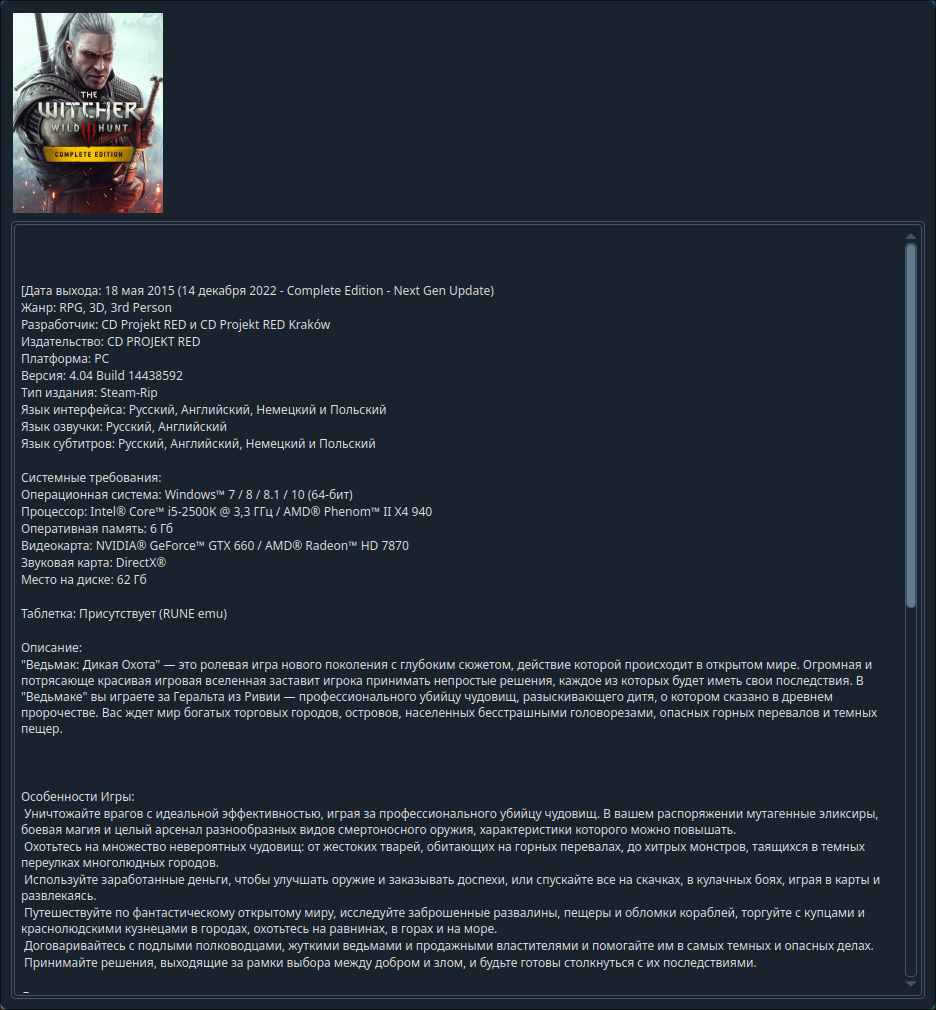
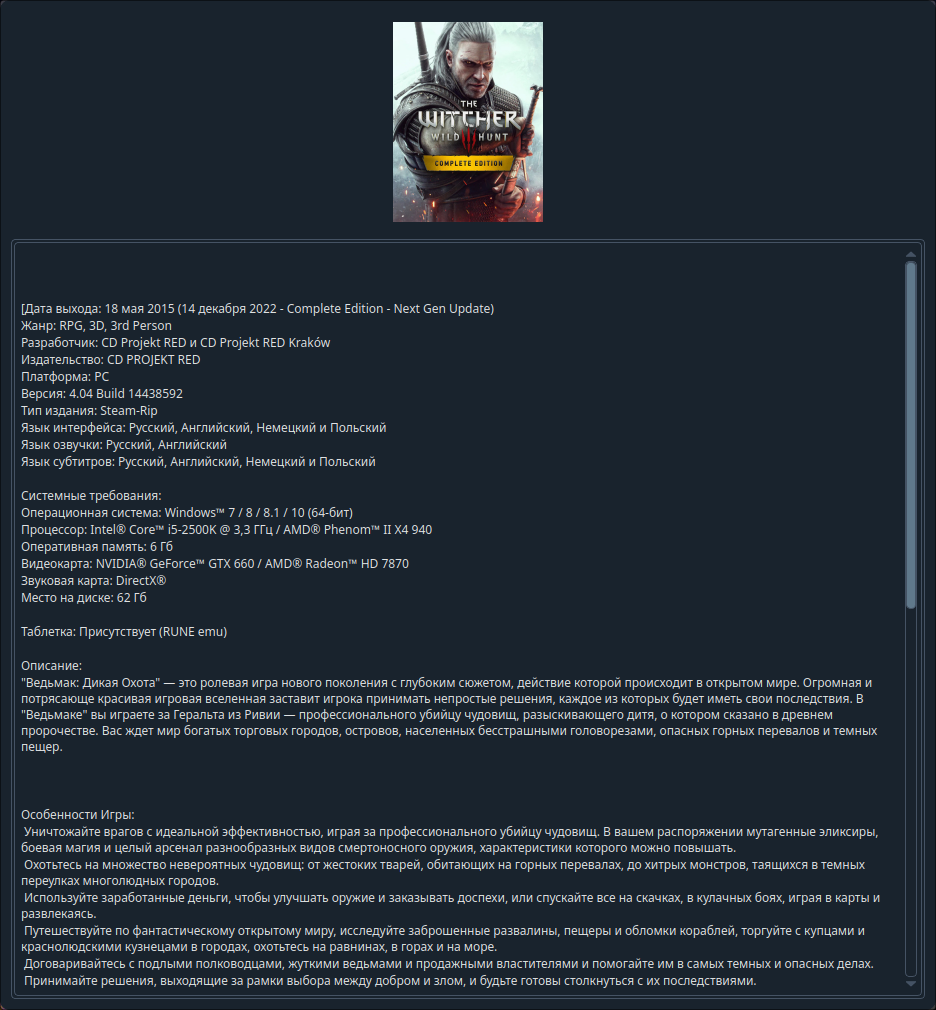
Improved UI

Changed region(s): [[0.0, 0.2762, 0.9295, 0.9822], [0.0, 0.0, 0.9915, 0.2762]]

diff --git a/gui.py b/gui.py
@@ -32,7 +32,14 @@ class TorrentInfoDialog(QDialog):
         image_pixmap = QPixmap(image_path)
         scaled_pixmap = image_pixmap.scaled(200, 200, Qt.KeepAspectRatio, Qt.SmoothTransformation)
         self.image_label.setPixmap(scaled_pixmap)
-        layout.addWidget(self.image_label)
+        image_layout = QHBoxLayout()
+        self.image_label.setAlignment(Qt.AlignHCenter)
+        image_layout.addWidget(self.image_label)
+
+        image_widget = QWidget()
+        image_widget.setLayout(image_layout)
+
+        layout.addWidget(image_widget)
 
         info_label = QTextEdit()
         info_label.setPlainText(info)
@@ -84,6 +91,7 @@ class TorrentDialog(QDialog):
         with tempfile.TemporaryDirectory() as tempdir:
             info = self.rutor.check_torrent_page(self.torrent, tempdir)
             info_dialog = TorrentInfoDialog(info, tempdir)
+            info_dialog.setWindowModality(Qt.WindowModal)
             info_dialog.exec()
 
     def download_torrent(self):
@@ -132,6 +140,7 @@ class MainWindow(QMainWindow):
             if item.text() == torrent.name:
                 logger.debug('Starting dialog')
                 torrentdialog = TorrentDialog(torrent, self.rutor)
+                torrentdialog.setWindowModality(Qt.WindowModal)
                 torrentdialog.exec()
 
     def search_button_clicked(self):

diff --git a/README.md b/README.md
@@ -33,4 +33,4 @@ cd RutorParser
 - Искать по всем страницам результатов
 - ~~Добавить диалоговое окно для просмотра описания торрента~~
 - Сделать авторизацию по cookie и скачивание торрентов из скрипта
-- Производить запросы в отдельных потоках чтобы не блокировался интерфейс
+- Убрать блокировку интерфейса при запросах
